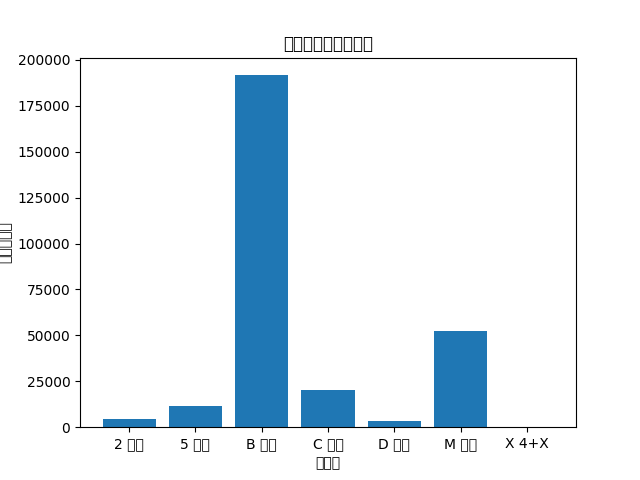
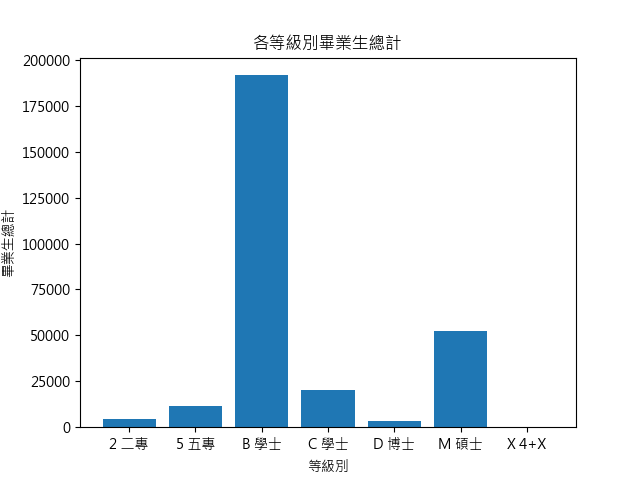
change matplot font

diff --git a/data-processing/data_processing.py b/data-processing/data_processing.py
@@ -2,6 +2,9 @@
 import numpy as np
 import pandas as pd
 import matplotlib.pyplot as plt
+import matplotlib
+
+matplotlib.rc("font", family="Microsoft JhengHei")
 
 # 讀取csv檔案
 data = pd.read_csv("graduatesc.csv")
